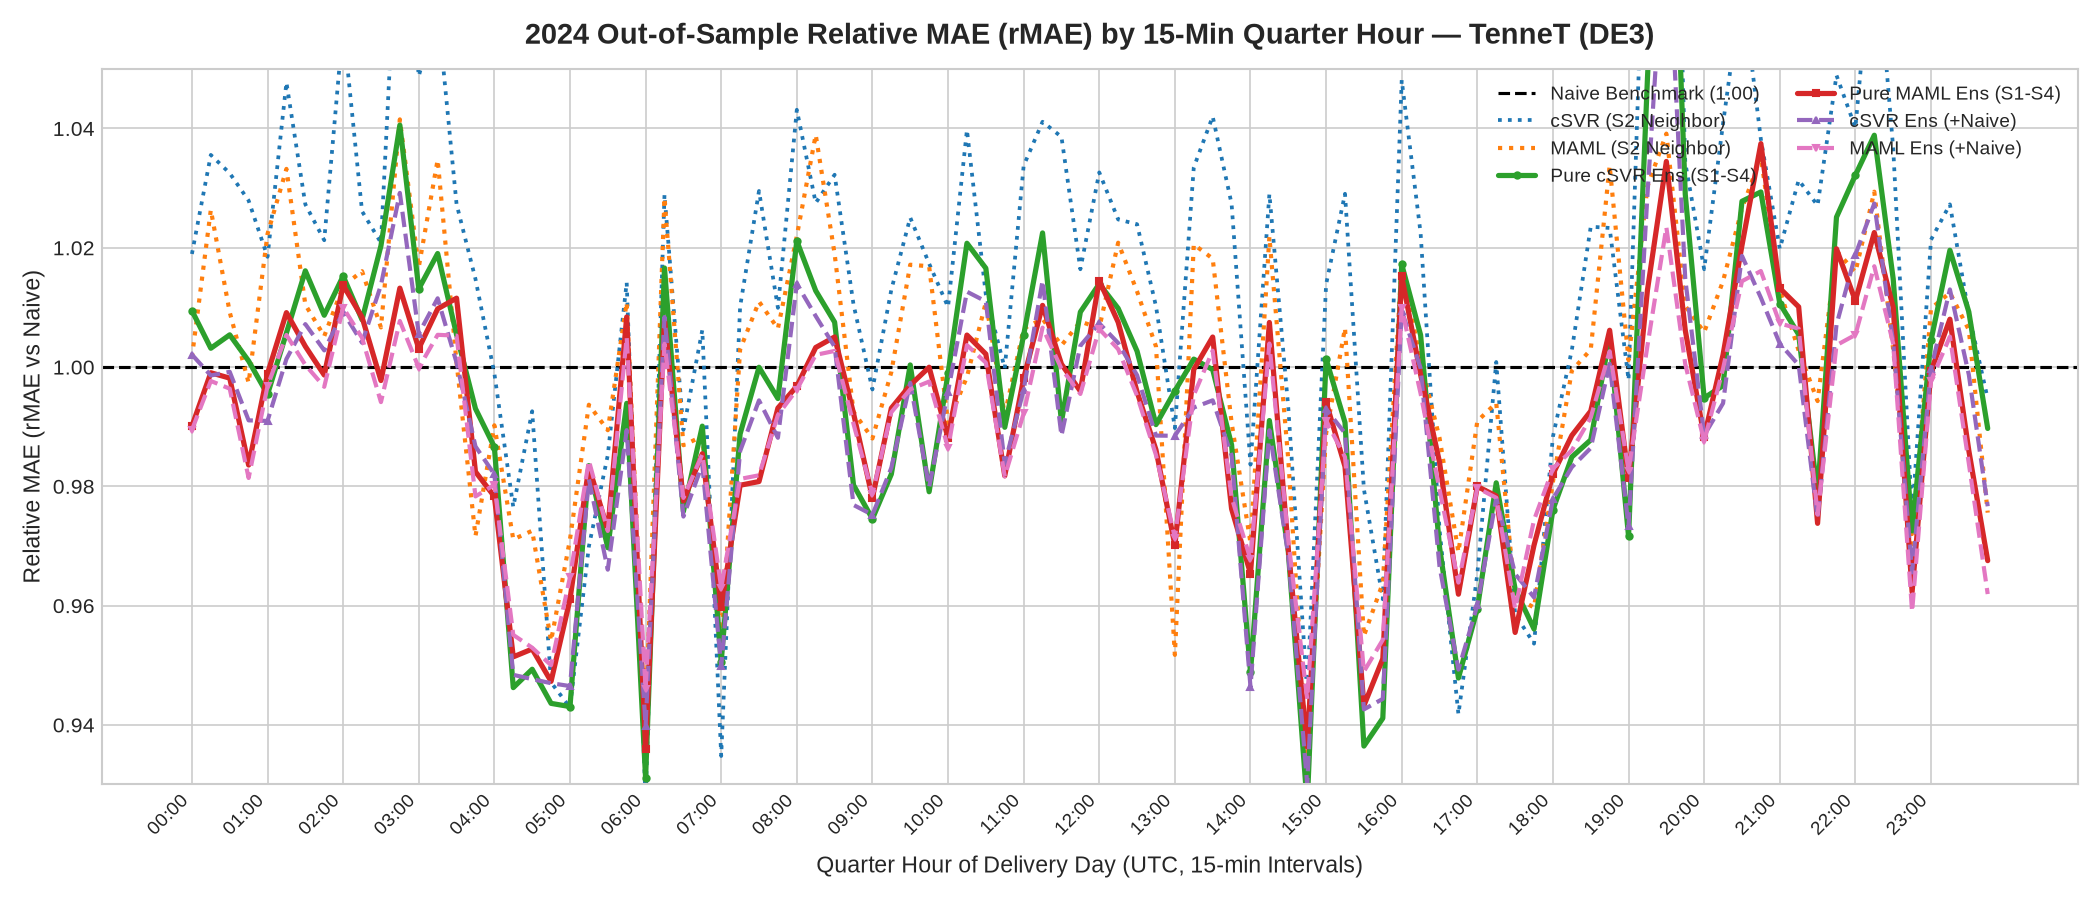
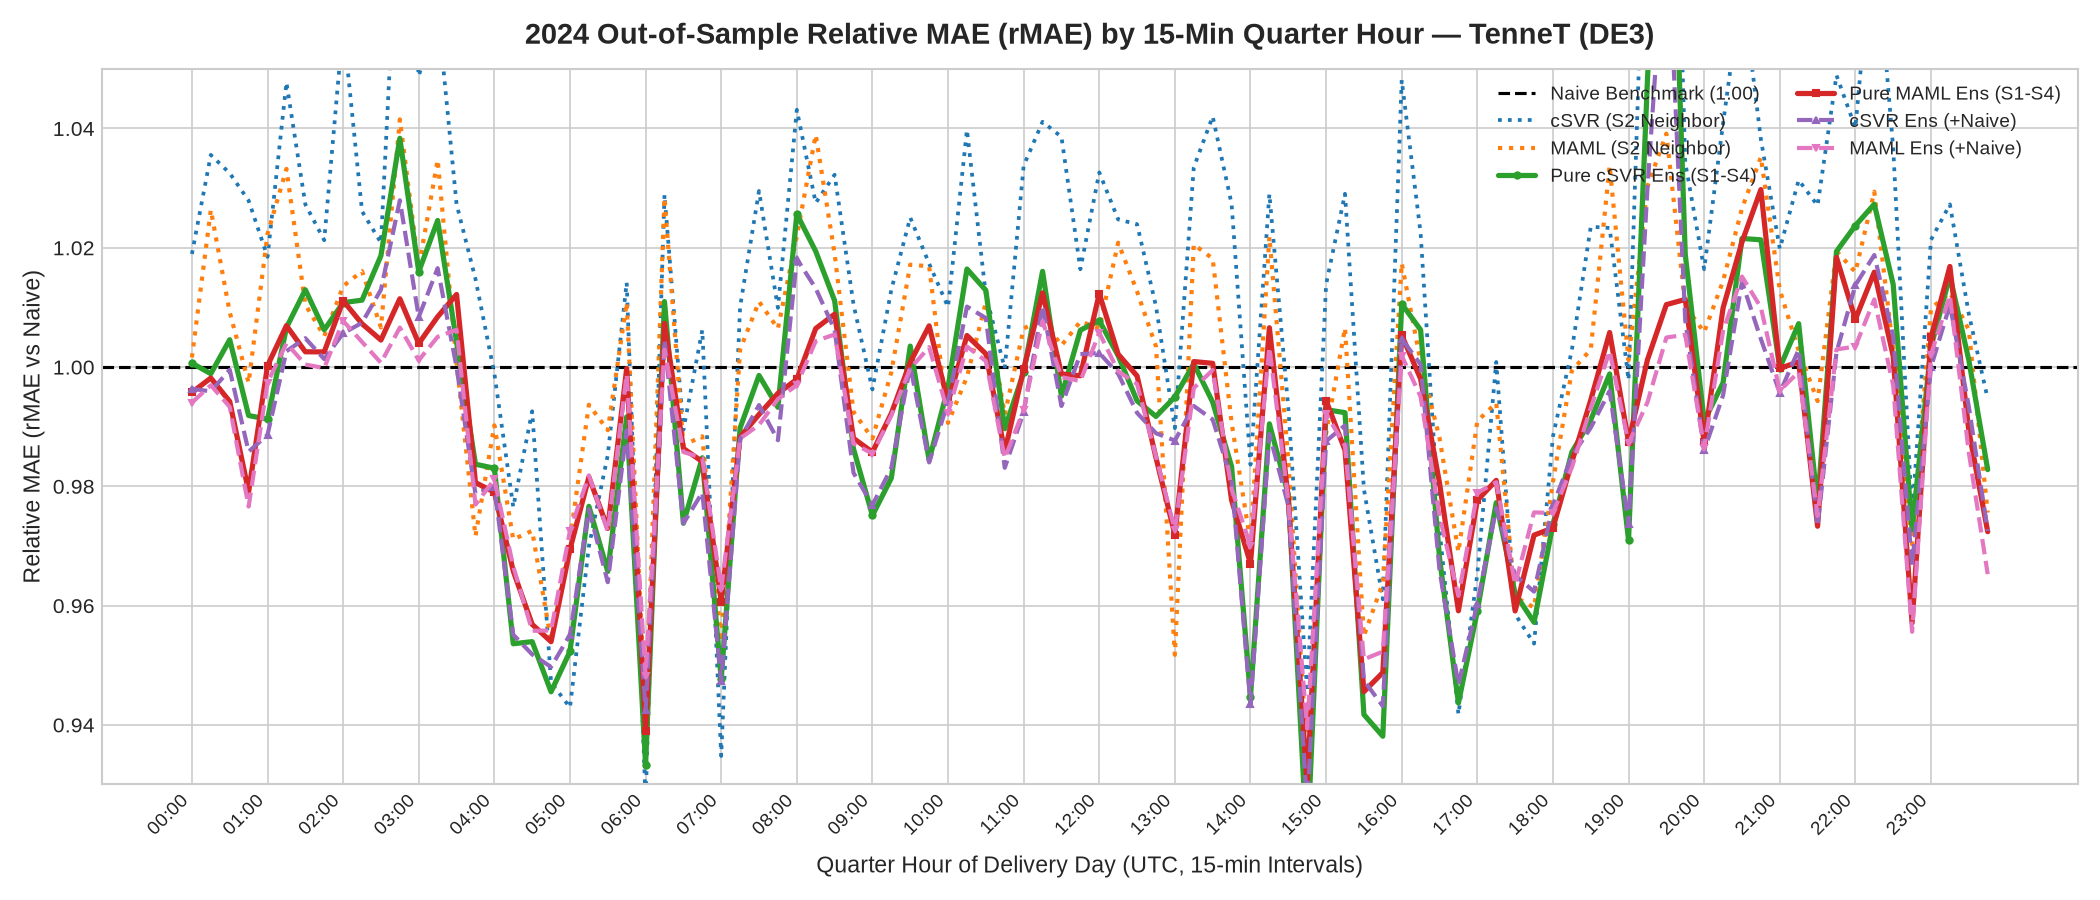
geändert:       Evaluation/plots/full4sets_by_hour_DE1.png 	geändert:       Evaluation/plots/full4sets_by_hour_DE2.png 	geändert:       Evaluation/plots/full4sets_by_hour_DE3.png 	geändert:       Evaluation/plots/full4sets_by_hour_DE4.png 	geändert:       Evaluation/plots/full4sets_heatmap_DE1.png 	

Changed region(s): [[0.2167, 0.0933, 0.9595, 0.8711], [0.0929, 0.2178, 0.2167, 0.56], [0.1857, 0.1556, 0.2167, 0.1867]]

diff --git a/run_full_4sets_backtest_2024.py b/run_full_4sets_backtest_2024.py
@@ -162,9 +162,10 @@ def run_zone_full4sets(zone: str, force_recompute_maml: bool = True, recompute_c
                 lin_i1 = m_l1.intercept_ if MAML_USE_LINEAR_BYPASS else 0.0
 
                 if recompute_csvr:
-                    m_c1 = train_csvr(w1.X_trainval, w1.y_trainval, bm_trainval=w1.bm_trainval)
-                    p_c1_scaled = float(predict_csvr(m_c1, w1.X_test)[0])
-                    pred_csvr_s1.append(_backtransform(p_c1_scaled, w1.y_mean, w1.y_std, bench_eur))
+                    w1_c = loader.get_window(zone, q, d_str, feature_set=FEATURE_SET_MACRO, lookback_days=LOOKBACK_DAYS, val_days=VAL_DAYS, filter_zero_var=True, filter_corr=True, corr_threshold=0.80)
+                    m_c1 = train_csvr(w1_c.X_trainval, w1_c.y_trainval, bm_trainval=w1_c.bm_trainval)
+                    p_c1_scaled = float(predict_csvr(m_c1, w1_c.X_test, bm_test=bench_eur)[0])
+                    pred_csvr_s1.append(_backtransform(p_c1_scaled, w1_c.y_mean, w1_c.y_std, bench_eur))
 
                 p_maml_scaled1 = maml_s1.adapt_and_predict(
                     qh_idx=q,
@@ -204,9 +205,10 @@ def run_zone_full4sets(zone: str, force_recompute_maml: bool = True, recompute_c
                 lin_i2 = m_l2.intercept_ if MAML_USE_LINEAR_BYPASS else 0.0
 
                 if recompute_csvr:
-                    m_c2 = train_csvr(w2.X_trainval, w2.y_trainval, bm_trainval=w2.bm_trainval)
-                    p_c2_scaled = float(predict_csvr(m_c2, w2.X_test)[0])
-                    pred_csvr_s2.append(_backtransform(p_c2_scaled, w2.y_mean, w2.y_std, bench_eur))
+                    w2_c = loader.get_window(zone, q, d_str, feature_set=FEATURE_SET_NEIGHBOR, lookback_days=LOOKBACK_DAYS, val_days=VAL_DAYS, filter_zero_var=True, filter_corr=True, corr_threshold=0.95)
+                    m_c2 = train_csvr(w2_c.X_trainval, w2_c.y_trainval, bm_trainval=w2_c.bm_trainval)
+                    p_c2_scaled = float(predict_csvr(m_c2, w2_c.X_test, bm_test=bench_eur)[0])
+                    pred_csvr_s2.append(_backtransform(p_c2_scaled, w2_c.y_mean, w2_c.y_std, bench_eur))
 
                 p_maml_scaled2 = maml_s2.adapt_and_predict(
                     qh_idx=q,
@@ -246,9 +248,10 @@ def run_zone_full4sets(zone: str, force_recompute_maml: bool = True, recompute_c
                 lin_i3 = m_l3.intercept_ if MAML_USE_LINEAR_BYPASS else 0.0
 
                 if recompute_csvr:
-                    m_c3 = train_csvr(w3.X_trainval, w3.y_trainval, bm_trainval=w3.bm_trainval)
-                    p_c3_scaled = float(predict_csvr(m_c3, w3.X_test)[0])
-                    pred_csvr_s3.append(_backtransform(p_c3_scaled, w3.y_mean, w3.y_std, bench_eur))
+                    w3_c = loader.get_window(zone, q, d_str, feature_set=FEATURE_SET_FUNDAMENTAL, lookback_days=LOOKBACK_DAYS, val_days=VAL_DAYS, filter_zero_var=True, filter_corr=False)
+                    m_c3 = train_csvr(w3_c.X_trainval, w3_c.y_trainval, bm_trainval=w3_c.bm_trainval)
+                    p_c3_scaled = float(predict_csvr(m_c3, w3_c.X_test, bm_test=bench_eur)[0])
+                    pred_csvr_s3.append(_backtransform(p_c3_scaled, w3_c.y_mean, w3_c.y_std, bench_eur))
 
                 p_maml_scaled3 = maml_s3.adapt_and_predict(
                     qh_idx=q,
@@ -288,9 +291,10 @@ def run_zone_full4sets(zone: str, force_recompute_maml: bool = True, recompute_c
                 lin_i4 = m_l4.intercept_ if MAML_USE_LINEAR_BYPASS else 0.0
 
                 if recompute_csvr:
-                    m_c4 = train_csvr(w4.X_trainval, w4.y_trainval, bm_trainval=w4.bm_trainval)
-                    p_c4_scaled = float(predict_csvr(m_c4, w4.X_test)[0])
-                    pred_csvr_s4.append(_backtransform(p_c4_scaled, w4.y_mean, w4.y_std, bench_eur))
+                    w4_c = loader.get_window(zone, q, d_str, feature_set=FEATURE_SET_BALANCE, lookback_days=LOOKBACK_DAYS, val_days=VAL_DAYS, filter_zero_var=True, filter_corr=False)
+                    m_c4 = train_csvr(w4_c.X_trainval, w4_c.y_trainval, bm_trainval=w4_c.bm_trainval)
+                    p_c4_scaled = float(predict_csvr(m_c4, w4_c.X_test, bm_test=bench_eur)[0])
+                    pred_csvr_s4.append(_backtransform(p_c4_scaled, w4_c.y_mean, w4_c.y_std, bench_eur))
 
                 p_maml_scaled4 = maml_s4.adapt_and_predict(
                     qh_idx=q,
@@ -511,15 +515,36 @@ def main():
     target_zones = ZONES if args.zone == "all" else [args.zone]
     all_summaries = []
 
-    for z in target_zones:
-        summary = run_zone_full4sets(z, force_recompute_maml=args.force, recompute_csvr=args.recompute_csvr or args.force)
-        all_summaries.append(summary)
+    if len(target_zones) > 1:
+        import concurrent.futures
+        print(f"\n=======================================================")
+        print(f"   PARALLEL EXECUTION: Launching {len(target_zones)} zones ({', '.join(target_zones)})")
+        print(f"=======================================================")
+        with concurrent.futures.ProcessPoolExecutor(max_workers=len(target_zones)) as executor:
+            futures = {
+                executor.submit(run_zone_full4sets, z, args.force, args.recompute_csvr or args.force): z
+                for z in target_zones
+            }
+            for fut in concurrent.futures.as_completed(futures):
+                z = futures[fut]
+                try:
+                    summary = fut.result()
+                    all_summaries.append(summary)
+                    print(f"\n[DONE] Zone {z} finished successfully.")
+                except Exception as e:
+                    print(f"\n[ERROR] Zone {z} failed: {e}")
+                    import traceback
+                    traceback.print_exc()
+    else:
+        for z in target_zones:
+            summary = run_zone_full4sets(z, force_recompute_maml=args.force, recompute_csvr=args.recompute_csvr or args.force)
+            all_summaries.append(summary)
 
     df_summary = pd.DataFrame(all_summaries)
     summary_csv = os.path.join(RESULTS_DIR, "annual_run_2024", "full_4sets_summary_metrics_2024.csv")
     df_summary.to_csv(summary_csv, index=False)
     print("\n=======================================================")
-    print("      ALL 4 ZONES COMPLETED - FINAL SUMMARY TABLE      ")
+    print("      ALL ZONES COMPLETED - FINAL SUMMARY TABLE      ")
     print("=======================================================")
     print(df_summary.to_string(index=False))
 

diff --git a/data_loader.py b/data_loader.py
@@ -132,10 +132,10 @@ class QHDataLoader:
         df["Date"] = pd.to_datetime(df["Date"], utc=True)
         df = df.sort_values("Date").reset_index(drop=True)
 
-        # Retain only features present in parquet
+        # Retain only features present in parquet (strictly purging target columns and Date at runtime)
         available_cols = set(df.columns)
         self._zone_features: dict[str, list[str]] = {
-            z: [c for c in cols if c in available_cols]
+            z: [c for c in cols if c in available_cols and c not in {"Date", "VWAP_0to30", TARGET_COL_PATTERN.format(zone=z)} and not c.endswith("VWAP_0to30")]
             for z, cols in self._zone_feature_map.items()
         }
         self._shift_cols = [c for c in raw_shift_cols if c in available_cols]
@@ -240,15 +240,28 @@ class QHDataLoader:
                         if any(col.endswith(f"_{w}") for w in safe_bal_windows):
                             self._balance_features[zone].append(col)
 
-            # Set 1 (Macro)
+            # Set 1 (Macro) — strictly purge national and regional VWAP_0to30 targets
             if "S1" in feat_df.columns:
                 s1_cols = feat_df.loc[mask_z & feat_df["S1"].astype(str).str.strip().str.lower().isin(["x", "s1"]), "name"].str.strip().tolist()
-                self._s1_features[zone] = [c for c in s1_cols if c in available_cols and c != target_col]
+                self._s1_features[zone] = [
+                    c for c in s1_cols 
+                    if c in available_cols 
+                    and c not in {target_col, "VWAP_0to30", "Date"} 
+                    and not c.endswith("VWAP_0to30") 
+                    and not c.endswith("VWAP_0to15") 
+                    and not c.endswith("VWAP_15to30")
+                ]
 
             # Set 3 (Fundamental)
             if "S3" in feat_df.columns:
                 s3_raw = feat_df.loc[mask_z & feat_df["S3"].astype(str).str.strip().str.lower().isin(["x", "s3"]), "name"].str.strip().tolist()
-                fund_cols = [c for c in s3_raw if c in available_cols and c != target_col and c != bench]
+                fund_cols = [
+                    c for c in s3_raw 
+                    if c in available_cols 
+                    and c not in {target_col, "VWAP_0to30", "Date"} 
+                    and c != bench 
+                    and not c.endswith("VWAP_0to30")
+                ]
                 if bench in available_cols:
                     fund_cols = [bench] + fund_cols
                 self._s3_features[zone] = fund_cols
